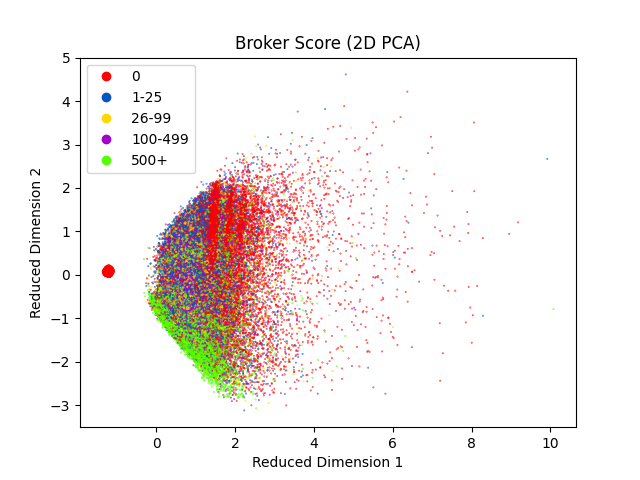
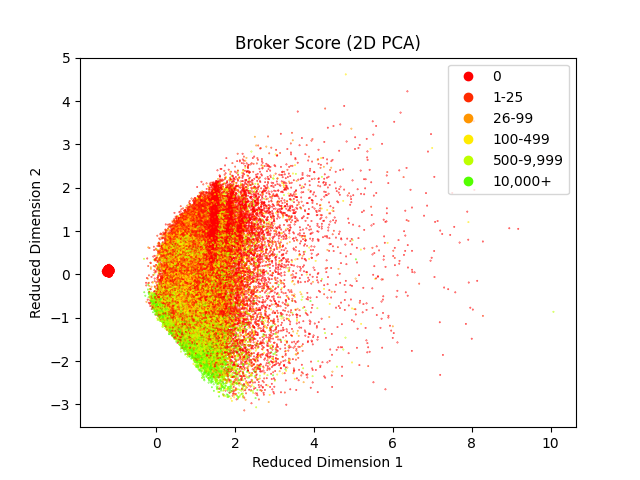
Added 10,000+ class, improved visualization, binary classification

diff --git a/regression.py b/regression.py
@@ -11,6 +11,7 @@ import numpy as np
 import tensorflow as tf
 from sklearn.metrics import r2_score
 from sklearn.metrics import f1_score
+from sklearn.metrics import confusion_matrix
 from sklearn.ensemble import RandomForestClassifier
 from sklearn.neighbors import KNeighborsClassifier
 from scipy.stats import mode
@@ -50,96 +51,20 @@ X_train, X_test, Y_train, Y_test = train_test_split(
     X_df, Y, train_size=0.9, shuffle=True, random_state=0
 )
 Y_class = pd.cut(
-    Y, bins=[-float("inf"), 0, 25, 100, 500, float("inf")], labels=[0, 1, 2, 3, 4]
+    Y,
+    bins=[-float("inf"), 0, 25, 100, 500, 10000, float("inf")],
+    labels=[0, 1, 2, 3, 4, 5],
 )
 Y_train_class = pd.cut(
-    Y_train, bins=[-float("inf"), 0, 25, 100, 500, float("inf")], labels=[0, 1, 2, 3, 4]
+    Y_train,
+    bins=[-float("inf"), 0, 25, 100, 500, 10000, float("inf")],
+    labels=[0, 1, 2, 3, 4, 5],
 ).astype(int)
 Y_test_class = pd.cut(
-    Y_test, bins=[-float("inf"), 0, 25, 100, 500, float("inf")], labels=[0, 1, 2, 3, 4]
+    Y_test,
+    bins=[-float("inf"), 0, 25, 100, 500, 10000, float("inf")],
+    labels=[0, 1, 2, 3, 4, 5],
 ).astype(int)
-
-
-# %%
-# Visualize node embeddings
-def visualize(X, Y_class, visualizer, title: str, dimensions=2, data_size=None):
-    X_visualized, X_hidden, Y_visualized, Y_hidden = train_test_split(
-        X, Y_class, train_size=data_size, random_state=0
-    )
-    X_transformed = visualizer.fit_transform(X_visualized)
-    if dimensions == 2:
-        plt.title(title)
-        scatter = plt.scatter(
-            X_transformed[:, 0],
-            X_transformed[:, 1],
-            c=Y_visualized,
-            s=3,
-            cmap=plt.cm.prism,
-        )
-        plt.legend(
-            handles=scatter.legend_elements()[0],
-            labels=["0", "1-25", "26-99", "100-499", "500+"],
-        )
-        plt.xlabel("Reduced Dimension 1")
-        plt.ylabel("Reduced Dimension 2")
-        scatter.set_sizes([0.1])
-
-    elif dimensions == 3:
-        fig = plt.figure(figsize=(10, 7))
-        ax = fig.add_subplot(111, projection="3d", title=title)
-        scatter = ax.scatter(
-            X_transformed[:, 0],
-            X_transformed[:, 1],
-            X_transformed[:, 2],
-            c=Y_visualized,
-            s=3,
-            cmap=plt.cm.prism,
-        )
-        ax.legend(
-            handles=scatter.legend_elements()[0],
-            labels=["0", "1-25", "26-99", "100-499", "500+"],
-        )
-        ax.set_xlabel("Reduced Dimension 1")
-        ax.set_ylabel("Reduced Dimension 2")
-        ax.set_zlabel("Reduced Dimension 3")
-        ax.set_box_aspect(None, zoom=0.9)
-        scatter.set_sizes([0.1])
-
-    plt.savefig(get_file_path(f"Data/{title}.png"))
-    plt.show()
-
-
-allow_visualize = input(
-    "Type visualize to re-compute node embedding visualizations, or press enter to show pre-computed visualizations: "
-)
-if allow_visualize.lower() == "visualize":
-    visualize(X_df, Y_class, PCA(n_components=2), "Broker Score (2D PCA)", dimensions=2)
-    visualize(X_df, Y_class, PCA(n_components=3), "Broker Score (3D PCA)", dimensions=3)
-    visualize(
-        X_df,
-        Y_class,
-        TSNE(n_components=2),
-        "Broker Score (2D t-SNE)",
-        dimensions=2,
-        data_size=0.05,
-    )
-    visualize(
-        X_df,
-        Y_class,
-        TSNE(n_components=3),
-        "Broker Score (3D t-SNE)",
-        dimensions=3,
-        data_size=0.05,
-    )
-else:
-    for image in [
-        "Broker Score (2D PCA)",
-        "Broker Score (3D PCA)",
-        "Broker Score (2D t-SNE)",
-        "Broker Score (3D t-SNE)",
-    ]:
-        plt.imshow(mpimg.imread(get_file_path(f"Data/{image}.png")))
-        plt.show()
 
 
 # %%
@@ -170,8 +95,8 @@ def eval(model, prediction_type):
         else:
             Y_test_pred_class = pd.cut(
                 Y_test_pred,
-                bins=[-float("inf"), 0, 25, 100, 500, float("inf")],
-                labels=[0, 1, 2, 3, 4],
+                bins=[-float("inf"), 0, 25, 100, 500, 10000, float("inf")],
+                labels=[0, 1, 2, 3, 4, 5],
             ).astype(int)
         f1 = f1_score(Y_test_class, Y_test_pred_class, average="weighted")
         scores["f1"] = f1
@@ -247,12 +172,14 @@ linear_regression = train_eval(linear_model.LinearRegression(), prediction_type=
 #   Takes a long time to run, tries to allocate too much memory (~50 GB) if attempted on full training set
 
 # %%
+# Random Forest Classifier
 print("Random Forest Classifier")
 rf_classifier, rf_classifier_score = train_eval(
     RandomForestClassifier(n_estimators=25, random_state=0),
     prediction_type="classification",
 )
 # %%
+# K-Nearest Neighbors Classifier
 print("K-Nearest Neighbors Classifier")
 knn_classifier, knn_classifier_score = train_eval(
     KNeighborsClassifier(n_neighbors=5), prediction_type="classification"
@@ -272,32 +199,32 @@ snn, snn_score = train_eval(
 
 # %%
 # Sequential Neural Network Classifiers
-print("Sequential Neural Network (classifier) [64, 48, 5] (trial)")
+print("Sequential Neural Network (classifier) [64, 48, 6]")
 snn_classify_1, snn_classify_score_1 = train_eval(
     create_tf_model(
         X_df.shape[1],
-        layer_sizes=[64, 48, 48, 5],
+        layer_sizes=[64, 48, 48, 6],
         # Final layer size must match number of classes - largest output weight is chosen
         prediction_type="classification",
     ),
     validation_data=(X_test, Y_test_class),
     epochs=100,
     batch_size=16384,
-    verbose=1,
+    verbose=0,
     prediction_type="classification",
 )
 
-print("Sequential Neural Network (classifier) [144, 144, 144, 144, 144, 5]")
+print("Sequential Neural Network (classifier) [144, 144, 144, 144, 144, 6]")
 snn_classify_2, snn_classify_score_2 = train_eval(
     create_tf_model(
         X_df.shape[1],
-        layer_sizes=[144, 144, 144, 144, 144, 5],
+        layer_sizes=[144, 144, 144, 144, 144, 6],
         prediction_type="classification",
     ),
     validation_data=(X_test, Y_test_class),
     epochs=100,
     batch_size=16384,
-    verbose=1,
+    verbose=0,
     prediction_type="classification",
 )
 
@@ -306,13 +233,152 @@ snn_classify_2, snn_classify_score_2 = train_eval(
 print(
     "Ensemble Classifier: Sequential Neural Network, Random Forest, K-Nearest Neighbors"
 )
-snn_classify_2, snn_classify_score_2 = train_eval(
+ensemble_classify, ensemble_classify_score = train_eval(
     ensemble_model([snn_classify_2, rf_classifier, knn_classifier]),
     prediction_type="classification",
 )
+ensemble_predictions = ensemble_classify.predict(X_test)
 
-# And try plotting the predicted classes to compare with actual values
-# Maybe save models as file for later use w/o retraining
-# Somewhere plot the broker score distribution itself
+# %%
+# Visualize broker score distributions
+plt.figure(figsize=(10, 6))
+plt.hist(Y, bins=50, color="blue", alpha=0.7, log=True)
+plt.title("Log Distribution of Broker Scores")
+plt.xlabel("Broker Score")
+plt.ylabel("Log Frequency")
+plt.grid(True)
+plt.savefig(get_file_path(f"Data/Log Distribution of Broker Scores.png"))
+plt.show()
+
+plt.figure(figsize=(10, 6))
+plt.hist(
+    Y_class, bins=range(7), align="left", color="blue", alpha=0.7, rwidth=0.8, log=True
+)
+plt.title("Log Distribution of Broker Score Classes")
+plt.xlabel("Broker Class")
+plt.ylabel("Log Frequency")
+plt.xticks(range(6), ["0", "1-25", "26-99", "100-499", "500-9,999", "10,000+"])
+plt.grid(True)
+plt.savefig(get_file_path(f"Data/Log Distribution of Broker Score Classes.png"))
+plt.show()
+
+
+# %%
+# Visualization
+def visualize(X, Y_class, visualizer, title: str, dimensions=2, data_size=None):
+    X_visualized, X_hidden, Y_visualized, Y_hidden = train_test_split(
+        X, Y_class, train_size=data_size, random_state=0
+    )
+    X_transformed = visualizer.fit_transform(X_visualized)
+    if dimensions == 2:
+        plt.title(title)
+        scatter = plt.scatter(
+            X_transformed[:, 0],
+            X_transformed[:, 1],
+            c=Y_visualized,
+            s=3,
+            cmap=plt.cm.prism,
+        )
+        plt.legend(
+            handles=scatter.legend_elements()[0],
+            labels=["0", "1-25", "26-99", "100-499", "500-9,999", "10,000+"],
+        )
+        plt.xlabel("Reduced Dimension 1")
+        plt.ylabel("Reduced Dimension 2")
+        scatter.set_sizes([0.1])
+
+    elif dimensions == 3:
+        fig = plt.figure(figsize=(10, 7))
+        ax = fig.add_subplot(111, projection="3d", title=title)
+        scatter = ax.scatter(
+            X_transformed[:, 0],
+            X_transformed[:, 1],
+            X_transformed[:, 2],
+            c=Y_visualized,
+            s=3,
+            cmap=plt.cm.prism,
+        )
+        ax.legend(
+            handles=scatter.legend_elements()[0],
+            labels=["0", "1-25", "26-99", "100-499", "500-9,999", "10,000+"],
+        )
+        ax.set_xlabel("Reduced Dimension 1")
+        ax.set_ylabel("Reduced Dimension 2")
+        ax.set_zlabel("Reduced Dimension 3")
+        ax.set_box_aspect(None, zoom=0.9)
+        scatter.set_sizes([0.1])
+
+    plt.savefig(get_file_path(f"Data/{title}.png"))
+    plt.show()
+
+
+allow_visualize = input(
+    "Type visualize to re-compute visualizations, or press enter to show pre-computed visualizations: "
+)
+if allow_visualize.lower() == "visualize":
+    visualize(X_df, Y_class, PCA(n_components=2), "Broker Score (2D PCA)", dimensions=2)
+    visualize(X_df, Y_class, PCA(n_components=3), "Broker Score (3D PCA)", dimensions=3)
+    visualize(
+        X_df,
+        Y_class,
+        TSNE(n_components=2),
+        "Broker Score (2D t-SNE)",
+        dimensions=2,
+        data_size=0.05,
+    )
+    visualize(
+        X_df,
+        Y_class,
+        TSNE(n_components=3),
+        "Broker Score (3D t-SNE)",
+        dimensions=3,
+        data_size=0.05,
+    )
+    visualize(
+        X_test,
+        ensemble_predictions,
+        PCA(n_components=2),
+        "Broker Score Ensemble Predictions (2D PCA)",
+        dimensions=2,
+    )
+    visualize(
+        X_test,
+        Y_test_class,
+        PCA(n_components=2),
+        "Broker Score Actual (2D PCA)",
+        dimensions=2,
+    )
+
+else:
+    for image in [
+        "Broker Score (2D PCA)",
+        "Broker Score (3D PCA)",
+        "Broker Score (2D t-SNE)",
+        "Broker Score (3D t-SNE)",
+        "Broker Score Ensemble Predictions (2D PCA)",
+        "Broker Score Actual (2D PCA)",
+    ]:
+        plt.imshow(mpimg.imread(get_file_path(f"Data/{image}.png")))
+        plt.show()
+
+# %%
+# Binary classification
+binary_predictions = np.array(
+    [0 if 0 <= pred <= 4 else 1 for pred in ensemble_predictions]
+)
+binary_actual = np.array([0 if 0 <= act <= 4 else 1 for act in Y_test_class])
+binary_f1 = f1_score(binary_actual, binary_predictions, average="weighted")
+print(f"Ensemble binary F1 score (distinguish 10,000+ brokers): {binary_f1}")
+conf_matrix = confusion_matrix(binary_actual, binary_predictions)
+print("Confusion Matrix:\n")
+print("[[TN  FP]")
+print(" [FN  TP]]\n")
+print(conf_matrix)
+# We want to maximize true positives / false negatives to avoid missing any high-value brokers
+# Alternatively, maximize true positives / false positives to avoid wasting time on low-value brokers
+
+# Maybe save models as files for later use w/o retraining
+# Add specialized models that only identify 10,000+ and below 10,000 - find most influential brokers
+#   Look into neural network configuration for rare class identification
 
 # %%
